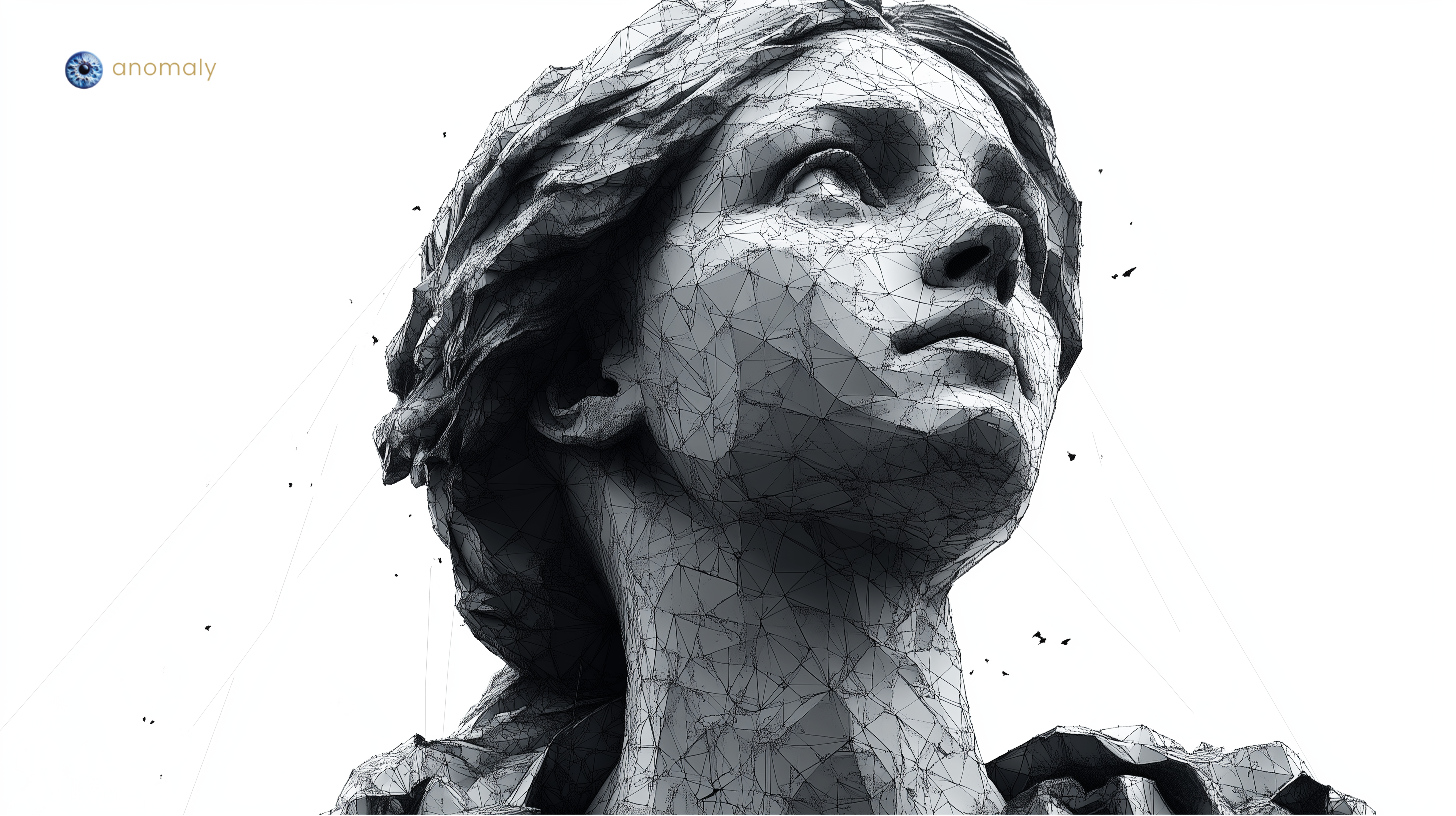
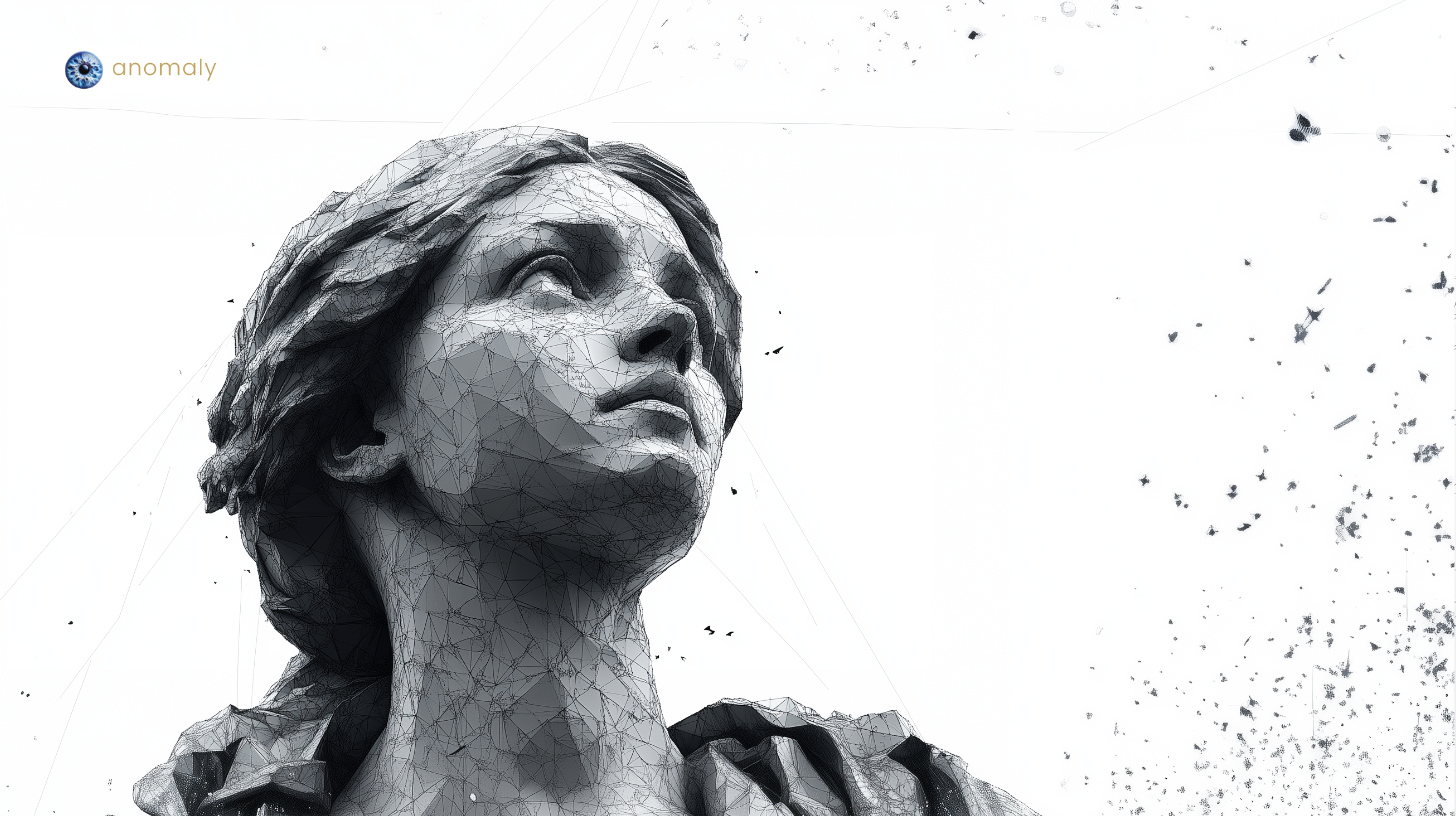
LinkedIn sharing change

diff --git a/_includes/blockquote-share.html b/_includes/blockquote-share.html
@@ -37,8 +37,8 @@ document.addEventListener('DOMContentLoaded', function() {
       if (this.classList.contains('twitter')) {
         window.open(`https://twitter.com/intent/tweet?text="${encodeURIComponent(quoteText)}"&url=${encodeURIComponent(pageUrl)}`, '_blank');
       } else if (this.classList.contains('linkedin')) {
-        window.open(`https://www.linkedin.com/sharing/share-offsite/?url=${encodeURIComponent(pageUrl)}`, '_blank');
-      } else if (this.classList.contains('copy')) {
+const linkedInText = `"${quoteText}"\n\nFrom: ${pageTitle}\n${pageUrl}`;
+window.open(`https://www.linkedin.com/feed/?shareActive=true&text=${encodeURIComponent(linkedInText)}`, '_blank');      } else if (this.classList.contains('copy')) {
         navigator.clipboard.writeText(`"${quoteText}" — from ${pageTitle} ${pageUrl}`).then(() => {
           // Show copied notification
           const notification = document.createElement('div');
